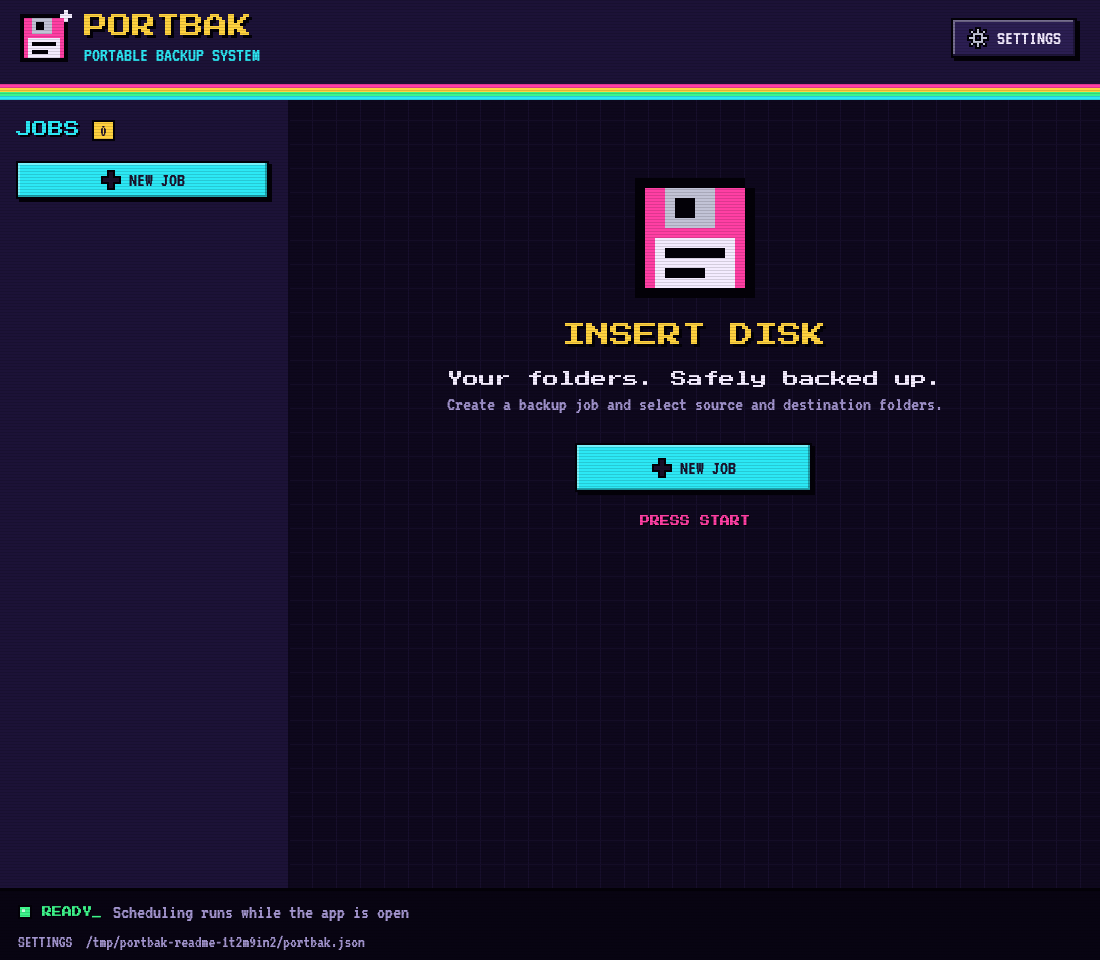
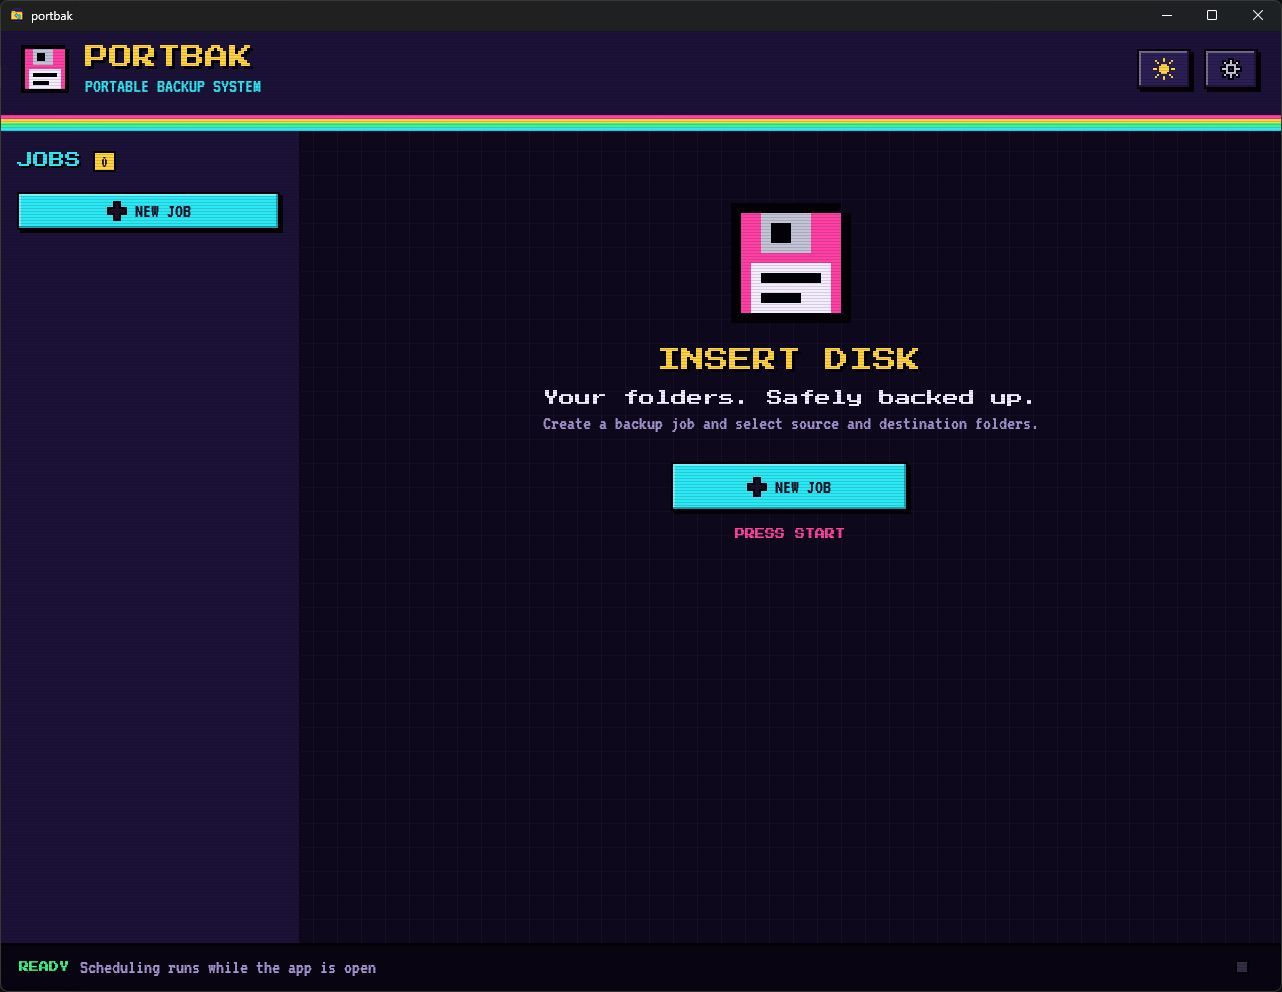
docs: show every look in README screenshot grid

diff --git a/README.md b/README.md
@@ -2,7 +2,13 @@
 
 Portable desktop backups for Linux x86-64 and Windows 10/11 x86-64. No installer, server, or account required.
 
-![portbak in Retro Dark](assets/screenshots/retro-dark.png)
+| Modern | Retro |
+| :---: | :---: |
+| [![Modern](assets/screenshots/modern-dark.png)](assets/screenshots/modern-dark.png) | [![Retro](assets/screenshots/retro-dark.png)](assets/screenshots/retro-dark.png) |
+| **Liquid Glass** | **Frutiger Aero** |
+| [![Liquid Glass](assets/screenshots/liquid-glass-dark.png)](assets/screenshots/liquid-glass-dark.png) | [![Frutiger Aero](assets/screenshots/frutiger-aero-dark.png)](assets/screenshots/frutiger-aero-dark.png) |
+| **Moonveil** | |
+| [![Moonveil](assets/screenshots/moonveil-dark.png)](assets/screenshots/moonveil-dark.png) | |
 
 - Full folder or ZIP backups, created only when source contents change.
 - Manual checks or automatic interval, daily, and weekday schedules.
